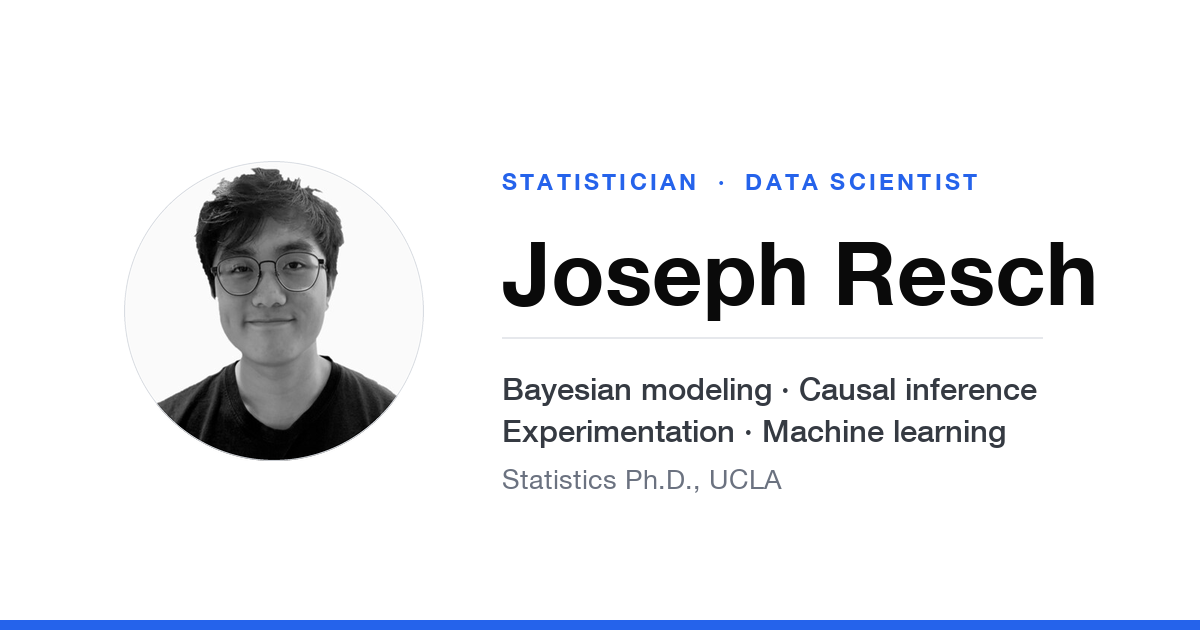
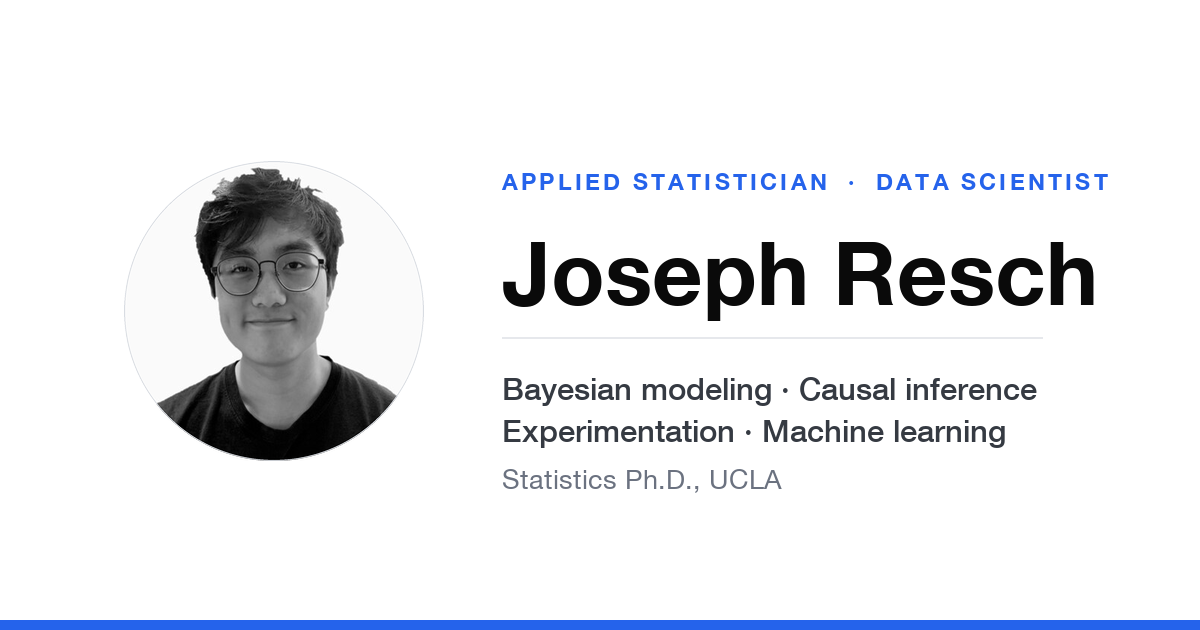
Refresh preview

Changed region(s): [[0.4008, 0.2714, 0.925, 0.3016]]

diff --git a/index.html b/index.html
@@ -11,28 +11,27 @@ title: Joseph Resch
           <div class="hero-portrait">
             <picture>
               <source srcset="{{ '/assets/headshot.webp' | relative_url }}" type="image/webp" />
-              <img src="{{ '/assets/headshot.jpg' | relative_url }}" alt="Portrait of Joseph Resch" width="132" height="132" />
+              <img src="{{ '/assets/headshot.jpg' | relative_url }}" alt="Portrait of Joseph Resch" width="150" height="150" />
             </picture>
           </div>
           <div class="hero-name">
-            <p class="eyebrow">Statistician &middot; Data Scientist</p>
             <h1>Joseph Resch</h1>
+            <div class="meta-row">
+              <a href="mailto:jresch@ucla.edu">jresch@ucla.edu</a>
+              <span>Los Angeles, CA</span>
+            </div>
+            <div class="links-row hero-links">
+              <a class="btn" href="{{ '/resume/' | relative_url }}">Resume</a>
+              <a class="btn" href="https://linkedin.com/in/joseph-resch" target="_blank" rel="noopener">LinkedIn</a>
+              <a class="btn" href="https://github.com/josephresch" target="_blank" rel="noopener">GitHub</a>
+            </div>
           </div>
         </div>
-        <p class="lead">Statistics Ph.D. from UCLA with a background in economics.</p>
+        <p class="lead">Statistics Ph.D. from UCLA with an economics background.</p>
         <p class="lead-sub">Experienced in Bayesian modeling, causal inference, experimentation, and machine learning.</p>
         <div class="about-body section-anchor" id="about">
-          <p>I'm a statistician with a Ph.D. from UCLA. My dissertation developed Bayesian methods for social and economic networks, the kind of models that describe how friendships and trade relationships form. As a research data scientist in psychometrics, I built hierarchical Bayesian models that track students' latent skills over time, and released the method as an R package.</p>
-          <p>At Farmers Insurance I trained gradient boosted risk models that now inform how the company prices and segments auto risk. I'm at my best where all of this comes together: experimentation and causal inference to learn what works, Bayesian modeling to stay honest about uncertainty, and machine learning to act on it.</p>
-        </div>
-        <div class="meta-row">
-          <a href="mailto:jresch@ucla.edu">jresch@ucla.edu</a>
-          <span>Los Angeles, CA</span>
-        </div>
-        <div class="links-row">
-          <a class="btn" href="{{ '/resume/' | relative_url }}">Resume</a>
-          <a class="btn" href="https://linkedin.com/in/joseph-resch" target="_blank" rel="noopener">LinkedIn</a>
-          <a class="btn" href="https://github.com/josephresch" target="_blank" rel="noopener">GitHub</a>
+          <p>I'm an applied statistician with a Ph.D. from UCLA. My dissertation developed Bayesian methods for social and economic networks, the kind of models that describe how friendships and trade relationships form. As a research data scientist in psychometrics, I built hierarchical Bayesian models that track students' latent skills over time. The projects column contains project summaries and released software.</p>
+          <p>At Farmers Insurance I trained gradient boosted risk models that now inform optimal pricing and segment auto accident risk. My strength is building experimentation and causal inference frameworks to learn what works, Bayesian models that quantify the uncertainty, and machine learning systems that put them to use.</p>
         </div>
       </div>
 

diff --git a/assets/main.scss b/assets/main.scss
@@ -188,24 +188,19 @@ a {
   margin-bottom: 24px;
 }
 
+.hero-portrait {
+  flex-shrink: 0;
+}
+
 .hero-portrait img {
-  width: 132px;
-  height: 132px;
+  width: 150px;
+  height: 150px;
   border-radius: 50%;
   object-fit: cover;
   object-position: center 20%;
   background: var(--bg-alt);
   border: 1px solid var(--line-strong);
   display: block;
-}
-
-.eyebrow {
-  margin: 0 0 10px;
-  color: var(--accent);
-  text-transform: uppercase;
-  letter-spacing: 0.14em;
-  font-size: 0.78rem;
-  font-weight: 700;
 }
 
 .hero-name h1 {
@@ -253,11 +248,15 @@ a {
   margin-bottom: 0;
 }
 
+.hero-links {
+  margin: 20px 0 0;
+}
+
 .meta-row {
   display: flex;
   flex-wrap: wrap;
   gap: 8px 18px;
-  margin: 26px 0 24px;
+  margin: 14px 0 0;
   font-size: 0.95rem;
   color: var(--muted);
 }
@@ -307,6 +306,13 @@ a {
 .btn-primary:hover {
   background: #1d4fd0;
   border-color: #1d4fd0;
+}
+
+/* A lower-key button for secondary placements, such as the resume actions
+   sitting beside a heading. */
+.btn-sm {
+  padding: 7px 14px;
+  font-size: 0.88rem;
 }
 
 /* ---------- Section bands ---------- */
@@ -660,19 +666,33 @@ a {
 }
 
 .resume-header {
-  max-width: 62ch;
-  margin-bottom: 28px;
+  margin-bottom: 26px;
+}
+
+/* Title on the left, the PDF actions tucked to the right so they sit out of
+   the way of the sheet below. */
+.resume-head-row {
+  display: flex;
+  justify-content: space-between;
+  align-items: center;
+  gap: 20px;
+  flex-wrap: wrap;
 }
 
 .resume-header h1 {
-  margin: 10px 0 8px;
+  margin: 0;
   font-size: clamp(1.9rem, 4vw, 2.5rem);
   line-height: 1.12;
   letter-spacing: -0.03em;
 }
 
+.resume-actions {
+  justify-content: flex-end;
+  gap: 10px;
+}
+
 .resume-note {
-  margin: 0 0 22px;
+  margin: 14px 0 0;
   font-family: "Source Serif 4", Georgia, "Times New Roman", serif;
   font-size: 1.04rem;
   line-height: 1.6;
@@ -706,12 +726,6 @@ a {
   display: block;
   width: 100%;
   height: auto;
-}
-
-.resume-alt {
-  margin: 26px 0 0;
-  font-size: 0.95rem;
-  color: var(--muted);
 }
 
 /* ---------- 404 ---------- */
@@ -810,7 +824,7 @@ a {
 }
 
 /* ---------- Responsive ---------- */
-@media screen and (max-width: 900px) {
+@media screen and (max-width: 1050px) {
   .hero-grid {
     grid-template-columns: 1fr;
     gap: 40px;
@@ -826,14 +840,20 @@ a {
     padding: 28px 0 48px;
   }
 
+  /* Once the actions wrap under the title they read as an ordinary button
+     row, so align them with everything else rather than to the right. */
+  .resume-actions {
+    justify-content: flex-start;
+  }
+
   .hero-head {
     gap: 18px;
     margin-bottom: 20px;
   }
 
   .hero-portrait img {
-    width: 112px;
-    height: 112px;
+    width: 140px;
+    height: 140px;
   }
 
   .skill-row {
@@ -862,6 +882,14 @@ a {
 
 /* Minima's breakpoint for collapsing the nav into a dropdown. */
 @media screen and (max-width: 600px) {
+  /* A phone leaves about 157px beside the portrait, which wraps both the name
+     and the contact line. Stack the head instead so they get full width. */
+  .hero-head {
+    flex-direction: column;
+    align-items: flex-start;
+    gap: 16px;
+  }
+
   /* The desktop underline is offset against the header's 60px line box. In
      the dropdown each link is only ~33px tall, so the rule lands across the
      middle of the word. Colour alone carries hover and current state here. */

diff --git a/resume.html b/resume.html
@@ -9,13 +9,14 @@ description: "Resume of Joseph Resch — Statistics Ph.D. from UCLA, experienced
 
 <section class="resume-page">
   <header class="resume-header">
-    <span class="kicker">Resume</span>
-    <h1>Joseph Resch</h1>
-    <p class="resume-note">Statistician and data scientist. Bayesian modeling, causal inference, experimentation, and machine learning.</p>
-    <div class="links-row">
-      <a class="btn btn-primary" href="{{ resume_pdf }}" download>Download PDF</a>
-      <a class="btn" href="{{ resume_pdf }}" target="_blank" rel="noopener">Open PDF in a new tab</a>
+    <div class="resume-head-row">
+      <h1>Resume</h1>
+      <div class="links-row resume-actions">
+        <a class="btn btn-primary btn-sm" href="{{ resume_pdf }}" download>Download PDF</a>
+        <a class="btn btn-sm" href="{{ resume_pdf }}" target="_blank" rel="noopener">Open PDF in a new tab</a>
+      </div>
     </div>
+    <p class="resume-note">Applied statistician and data scientist. Bayesian modeling, causal inference, experimentation, and machine learning.</p>
   </header>
 
   {%- comment -%}
@@ -30,11 +31,4 @@ description: "Resume of Joseph Resch — Statistics Ph.D. from UCLA, experienced
       <img src="{{ '/assets/resume-preview.png' | relative_url }}" alt="One-page resume of Joseph Resch" width="1700" height="2200" />
     </picture>
   </a>
-
-  <p class="resume-alt">
-    The same ground is covered as text under
-    <a href="{{ '/' | relative_url }}#experience">experience</a>,
-    <a href="{{ '/' | relative_url }}#publications">publications</a> and
-    <a href="{{ '/' | relative_url }}#skills">skills</a>.
-  </p>
 </section>

diff --git a/_includes/footer.html b/_includes/footer.html
@@ -1,0 +1,34 @@
+{%- comment -%}
+  Overrides minima's footer. The only change: minima repeats the site title as
+  a `p-name` list item directly above the email, which duplicates the heading
+  right above it. The microformat still needs a name, so `p-name` moves onto
+  the heading rather than being dropped.
+{%- endcomment -%}
+<footer class="site-footer h-card">
+  <data class="u-url" href="{{ "/" | relative_url }}"></data>
+
+  <div class="wrapper">
+
+    <h2 class="footer-heading p-name">{{ site.title | escape }}</h2>
+
+    <div class="footer-col-wrapper">
+      <div class="footer-col footer-col-1">
+        <ul class="contact-list">
+          {%- if site.email -%}
+          <li><a class="u-email" href="mailto:{{ site.email }}">{{ site.email }}</a></li>
+          {%- endif -%}
+        </ul>
+      </div>
+
+      <div class="footer-col footer-col-2">
+        {%- include social.html -%}
+      </div>
+
+      <div class="footer-col footer-col-3">
+        <p>{{- site.description | escape -}}</p>
+      </div>
+    </div>
+
+  </div>
+
+</footer>

diff --git a/tools/build-og-card.py b/tools/build-og-card.py
@@ -23,7 +23,7 @@ LINE, STRONG, ACCENT = (230, 232, 236), (214, 218, 224), (37, 99, 235)
 FONT_FILE = "/System/Library/Fonts/HelveticaNeue.ttc"
 REGULAR, BOLD, MEDIUM = 0, 1, 10
 
-EYEBROW = "STATISTICIAN  ·  DATA SCIENTIST"
+EYEBROW = "APPLIED STATISTICIAN  ·  DATA SCIENTIST"
 NAME = "Joseph Resch"
 LEAD = ["Bayesian modeling · Causal inference",
         "Experimentation · Machine learning"]
